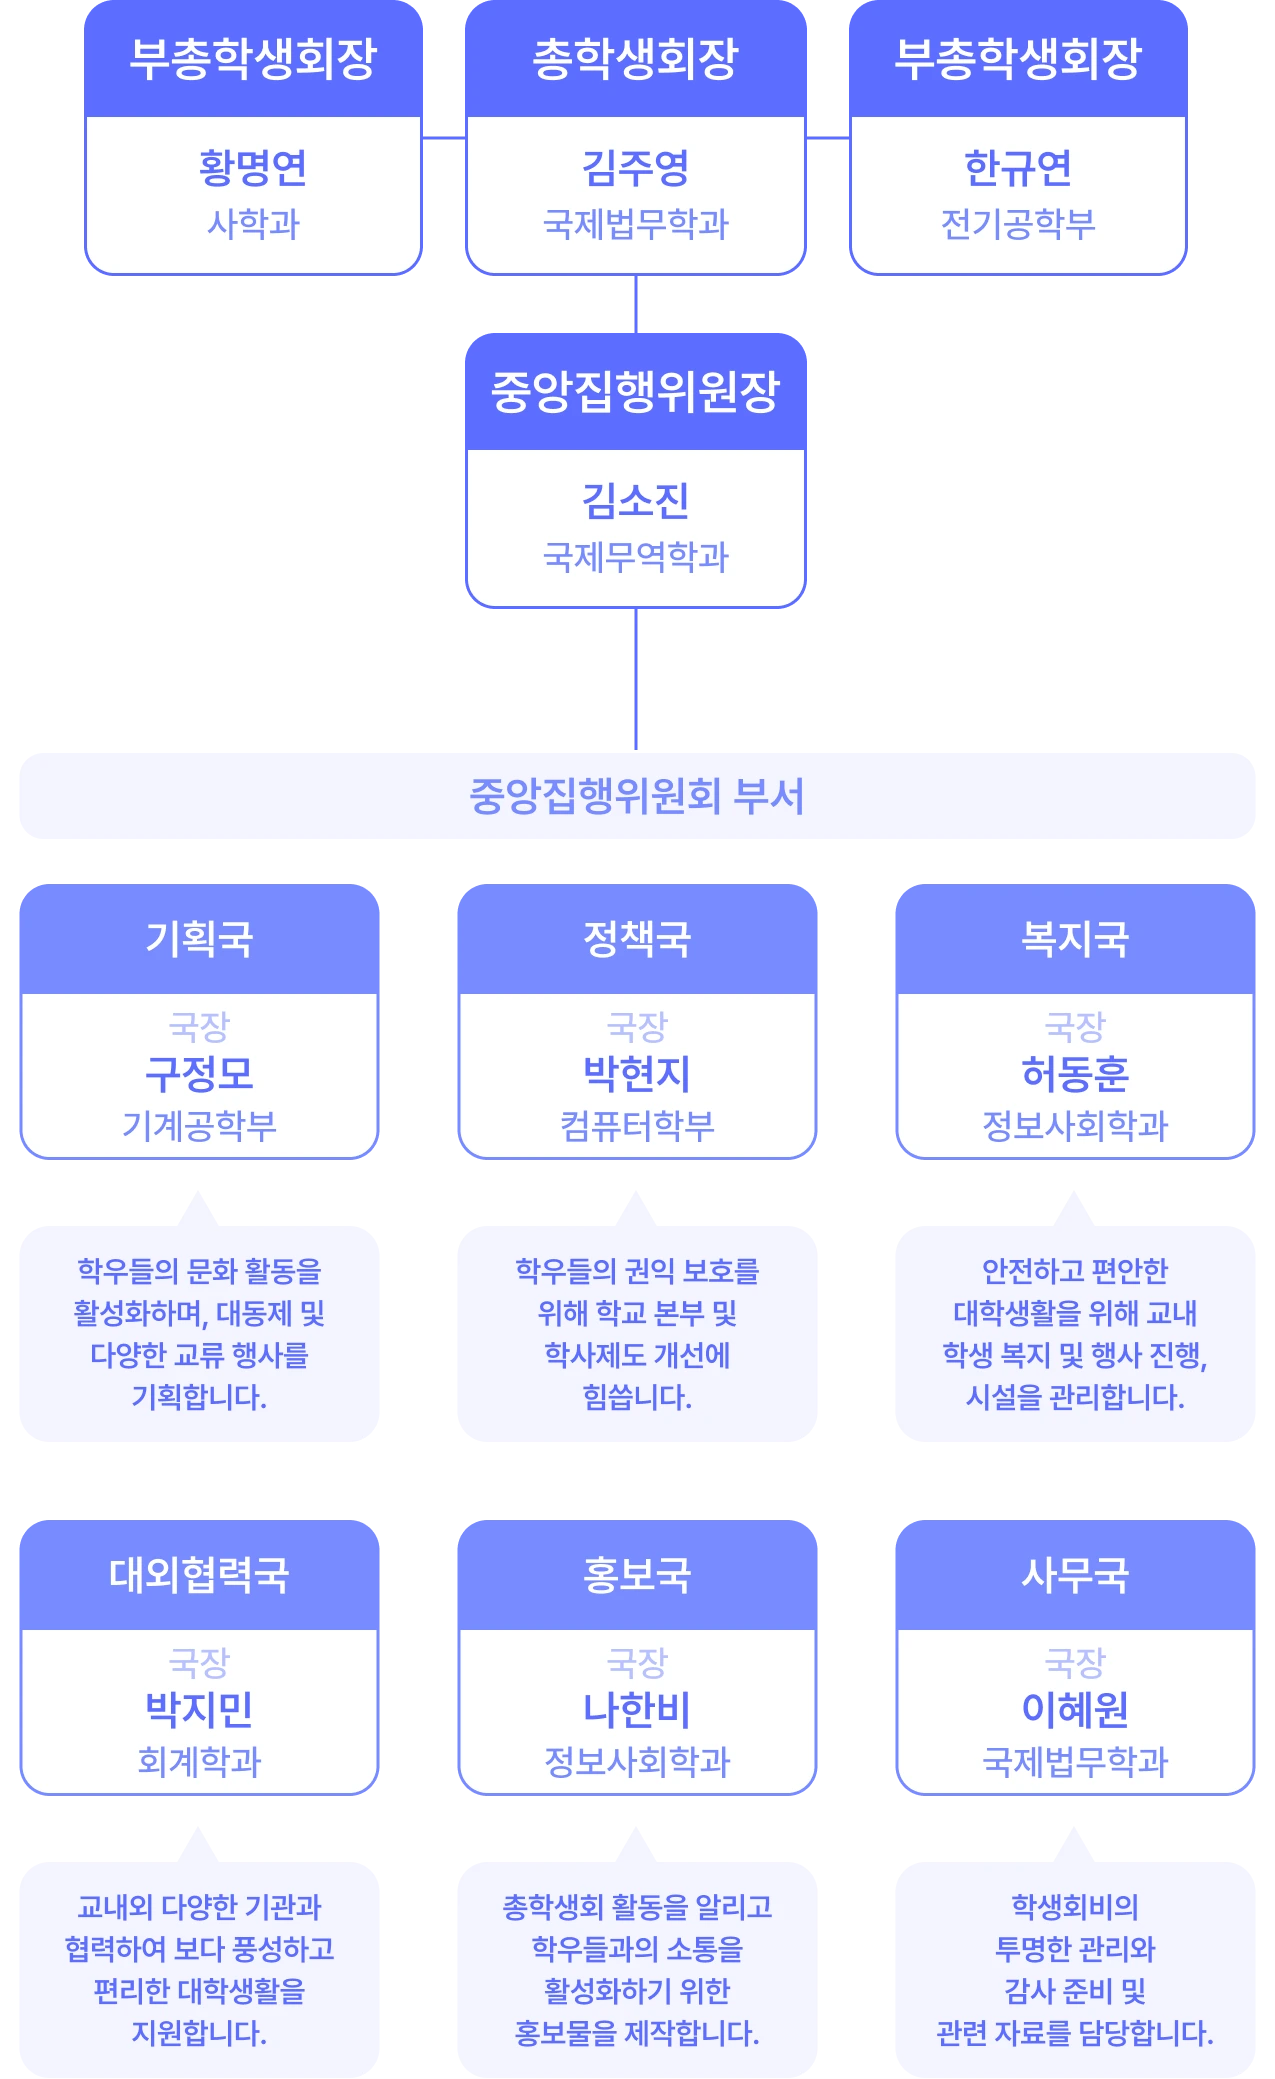
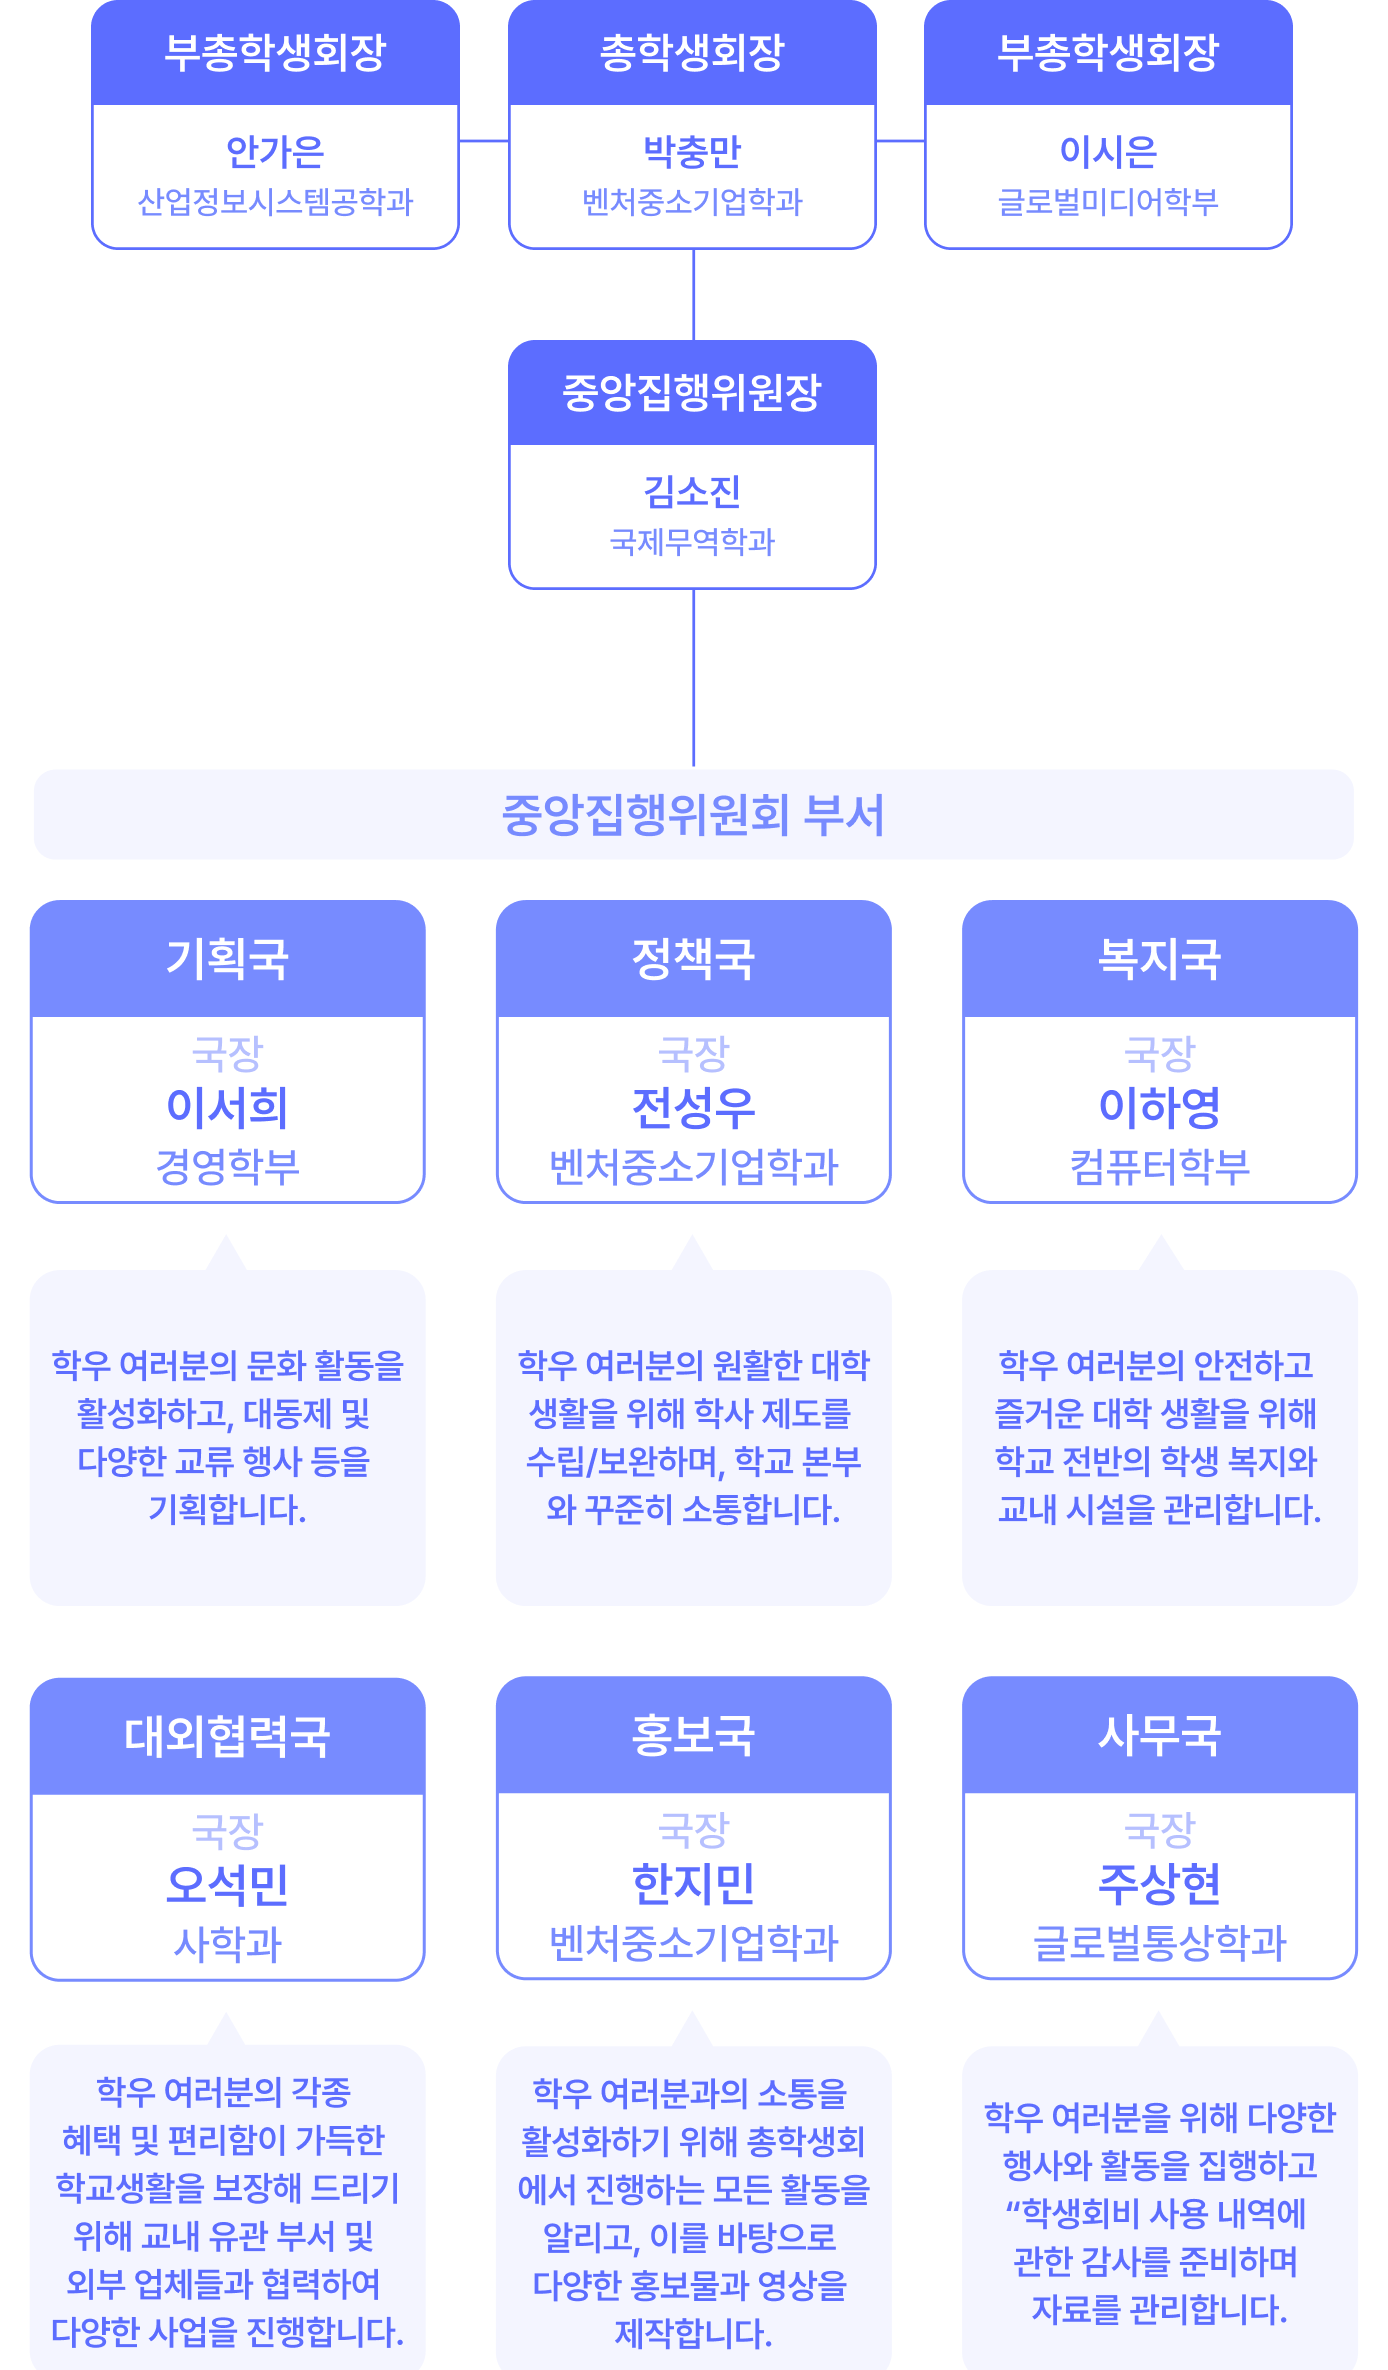
feat: 66대 소개 및 조직도 반영

diff --git a/src/pages/intro/const.ts b/src/pages/intro/const.ts
@@ -1,28 +1,34 @@
 export const SUBTITLE: Record<string, string> = {
-  총학생회: '제65대 총학생회 SS:URE',
-  중앙운영위원회: '제65대 중앙운영위원회',
-  중앙집행위원회: '제65대 중앙집행위원회',
+  총학생회: '제66대 총학생회 FOCUSS:U',
+  중앙운영위원회: '제66대 중앙운영위원회',
+  중앙집행위원회: '제66대 중앙집행위원회',
 } as const;
 
 export const INTROTEXTS: Record<string, string> = {
-  총학생회: `안녕하십니까. 우리의 숭실에 확신을 제65대 총학생회 S:SURE입니다.\n
- 저희는 2025년도 학생회 정기선거 개표 결과 전체 12,257인 중 7,201인의 투표, 2,202인의 득표를 받아 당선되었습니다. 학생회 정기선거에 관심을 가지고 참여해 주신 모든 학우 여러분께 진심으로 감사드립니다. 기호 3번 S:SURE를 믿어주셔서 감사드리며, 함께 선의의 경쟁을 펼쳐준 두 선거운동본부의 학생 사회를 향한 열정을 잊지 않겠습니다. 만 삼천 학우분께 신뢰받을 수 있는 총학생회가 되도록 노력하겠습니다.\n
- 학우 여러분이 숭실에 확신을 가지기를, 숭실을 구성하는 다양한 구성원이 대동(大同)하기를 바라는 마음으로 출마하였습니다. 학우 여러분의 목소리를 경청하고 함께 의논하여, 우리가 원하는 방향으로 숭실의 학생 사회를 이끌어가겠습니다.\n
- 자유전공학부 신설, 다전공 활성화, 국제대학 설립 등 숭실의 존속과 발전을 위한 여러 정책이 시행을 앞두고 있습니다. 학우 여러분의 불편과 혼란을 최소화하며, 숭실이 진리와 봉사의 가치를 오랫동안 불피울 수 있도록 온 힘을 다하겠습니다.\n
- 숭실인들의 대동(大同), 그 대동을 통한 더 큰 확신을 제65대 총학생회 S:SURE가 만들겠습니다. 잘 부탁드립니다.`,
+  총학생회: `안녕하십니까.
+숭실을 향한 집중, FOCUSS:U 제66대 총학생회입니다.\n
+2025년 11월 21일에 실시된 학생회 정기선거에서 총 유권자 수 12,107명 중 7,046명의 투표, 3,184명의 득표를 받아 당선되었습니다.\n
+학생회 정기선거에 관심을 가지고 소중한 한 표를 행사해주신 모든 학우 여러분께 진심으로 감사드립니다. 또한 기호 1번 FOCUSS:U를 믿고 선택해주신 학우 여러분께 깊은 감사의 말씀을 드립니다. 저희는 1만 2천여 명 학우 한 분 한 분의 목소리를 가장 가까운 곳에서 듣고, 끊임없이 소통하는 총학생회가 되겠습니다.\n
+FOCUSS:U는 많은 변화의 흐름 속에서, 학생이 중심이 되는 학교를 만들기 위해 '소통'을 기조로 출마했습니다.\n
+앞으로 학교에는 수많은 변화가 찾아올 것이고, 그 과정에서 혼란과 해결해야 할 과제들도 분명 존재할 것입니다. 그러나 그 모든 순간 속에서 저희는 변함없이 학우 여러분의 곁에 서 있겠습니다.\n
+선거 기간 동안의 열정과 출마를 결심했던 초심을 결코 잃지 않고, 진심 어린 마음으로 1년 동안 최선을 다하는 총학생회를 만들어가겠습니다.\n
+학생자치기구는 학우 여러분의 참여와 관심, 그리고 목소리가 모일 때 비로소 힘을 얻습니다.
+2026년을 함께 만들어갈 총학생회 FOCUSS:U를 비롯한 모든 자치기구에 많은 관심과 참여를 부탁드립니다.\n
+`,
   중앙운영위원회: `중앙운영위원회는 학생총회와 학생총투표, 전체학생대표자회의와 확대운영위원회를 제외하고 본회(숭실대학교 총학생회)의 활동에 관한 최고 의결권을 갖는 의결 기구입니다. 총학생회장과 부총학생회장, 단과대학 학생회장과 자유전공학부 학생회장, 동아리연합회장으로 구성되어 주 1회 정기 회의를 진행합니다. \n
 중앙운영위원회는 학내 주요 사안에 대한 학과(부)와 단과대학 학생회의 의견을 청취하고, 학교 전체의 발전과 학생 만족도 향상을 위해 의논하여 결정합니다. 중앙운영위원회에서 보고, 논의, 의결한 사항은 회의록을 통해 공개하고 있으며 총학생회 홈페이지에서 열람할 수 있습니다.\n
-65대 중앙운영위원회는 숭실대학교 학생 복지 향상과 원활한 학사 운영 등을 위해 최선을 다하겠습니다. 나아가 학생 사회를 건강하게 유지하고 학생 자치를 더욱 활성화하기 위해 노력하겠습니다. 많은 관심 부탁드립니다.`,
-  중앙집행위원회: `안녕하세요. 우리의 숭실에 확신을 제65대 총학생회 S:SURE
-중앙집행위원회 위원장 김소진입니다.\n
-중앙집행위원회는 숭실대학교 학부 과정 전체 학우를 대표하며, 총학생회의 모든 사업과 정책을 책임지고 기획 및 실행하는 집행기구입니다. 총학생회장단을 필두로 기획국, 정책국, 복지국, 대외협력국, 홍보국, 사무국으로 구성되어 있으며  각 부서 간의 원활한 소통과 협력을 돕고있습니다.\n
+66대 중앙운영위원회는 숭실대학교 학생 복지 향상과 원활한 학사 운영 등을 위해 최선을 다하겠습니다. 나아가 학생 사회를 건강하게 유지하고 학생 자치를 더욱 활성화하기 위해 노력하겠습니다. 많은 관심 부탁드립니다.`,
+  중앙집행위원회: `안녕하십니까. 숭실을 향한 집중, FOCUSS:U 제66대 총학생회입니다.\n
+중앙집행위원회는 숭실대학교 학부 과정 전체 학우를 대표하며, 총학생회의 모든 사업과 정책을 책임지고 기획 및 실행하는 집행기구입니다. 총학생회장단을 필두로 기획국, 대외협력국, 복지국, 사무국, 정책국, 홍보소통국으로 구성되어 있으며 각 부서 간의 원활한 소통과 협력을 돕고있습니다.\n
 중앙집행위원회 각 국의 역할은 다음과 같습니다:\n
-1. 기획국: 학우들의 문화 활동을 활성화하며, 대동제 및 다양한 교류 행사를 기획합니다.\n
-2. 정책국: 학우들의 권익 보호를 위해 학교 본부 및 학사제도 개선에 힘씁니다.\n
+1. 기획국: 학우 여러분의 문화 활동을 활성화하고, 대동제 및 다양한 교류 행사 등을 기획합니다.\n
+2. 대외협력국: 학우 여러분의 각종 혜택 및 편리함이 가득한 학교생활을 보장해 드리기 위해 교내 유관 부서 및 외부 업체들과 협력하여 다양한 사업을 진행합니다.\n
 3. 복지국: 안전하고 편안한 대학생활을 위해 교내 학생 복지 및 행사 진행, 시설을 관리합니다.\n
-4. 대외협력국: 교내외 다양한 기관과 협력하여 보다 풍성하고 편리한 대학생활을 지원합니다.\n
-5. 홍보국: 총학생회 활동을 알리고 학우들과의 소통을 활성화하기 위한 홍보물을 제작합니다.\n
-6. 사무국: 학생회비의 투명한 관리와 감사 준비 및 관련 자료를 담당합니다.\n
-2025년, '대동(大同)'의 가치 아래 모든 학우들이 하나 되는 숭실을 만들어 나가며 학우들의 권익 보호와 즐겁고 의미 있는 대학생활을 위해 항상 노력하겠습니다. \n
-감사합니다.`,
+4. 사무국: 학우 여러분을 위해 다양한 행사와 활동을 집행하고 학생회비 사용 내역에 관한 감사를 준비하며 자료를 관리합니다.\n
+5. 정책국: 학우 여러분의 원활한 대학 생활을 위해 학사 제도를 수립/보완하며, 학교 본부와 꾸준히 소통합니다. \n
+6. 홍보소통국: 학우 여러분과의 소통을 활성화하기 위해 총학생회에서 진행하는 모든 활동을 알리고, 이를 바탕으로 다양한 홍보물과 영상을 제작합니다.\n
+2026년, '소통'의 기조 아래 학우들이 중심이 되는 숭실을 만들어 나가며 학우들의 권익 보호와 즐겁고 의미 있는 대학생활을 위해 항상 노력하겠습니다. \n
+많은 관심과 참여 부탁드립니다.\n
+감사합니다.
+`,
 } as const;

diff --git a/src/components/logo/CouncilLogo.tsx b/src/components/logo/CouncilLogo.tsx
@@ -1,5 +1,5 @@
 import LogoSvg from '@/assets/image/logo/focussu_logo.svg?react';
-// import SkyBlueLogoSvg from '@/assets/image/logo/focussu_logo_skyblue.svg?react';
+import SkyBlueLogoSvg from '@/assets/image/logo/focussu_logo_skyblue.svg?react';
 import { cn } from '@/libs/utils';
 
 // 66대 학생회 FOCUSSU 로고입니다.
@@ -8,6 +8,7 @@ export default function CouncilLogo({ className }: React.SVGProps<SVGSVGElement>
 }
 
 // 66대 학생회 FOCUSSU 로고 하늘색 버전입니다.
-// CouncilLogo.Skyblue = ({ className }: React.SVGProps<SVGSVGElement>) => {
-//   return <SkyBlueLogoSvg className={cn(className)} />;
-// };
+
+CouncilLogo.Skyblue = ({ className }: React.SVGProps<SVGSVGElement>) => {
+  return <SkyBlueLogoSvg className={cn(className)} />;
+};

diff --git a/src/components/IntroCard.tsx b/src/components/IntroCard.tsx
@@ -1,6 +1,6 @@
 import { Card, CardContent } from '@/components/ui/card';
 import { cn } from './../libs/utils';
-import SsureLogo from '@/components/logo/SsureLogo';
+import CouncilLogo from './logo/CouncilLogo';
 
 // 소개페이지 소개글에 쓰이는 컴포넌트입니다. tailwindcss border는 그라데이션이 적용되지않아 이렇게 구현했는데, 더 좋은 방법 있으면 말씀해주세요.
 interface IntroCardProps {
@@ -21,7 +21,7 @@ export function IntroCard({ children, className = '' }: IntroCardProps) {
           )}
         >
           {children}
-          <SsureLogo.Navy className="w-40" />
+          <CouncilLogo.Skyblue className="h-24 w-40" />
         </CardContent>
       </Card>
     </div>
